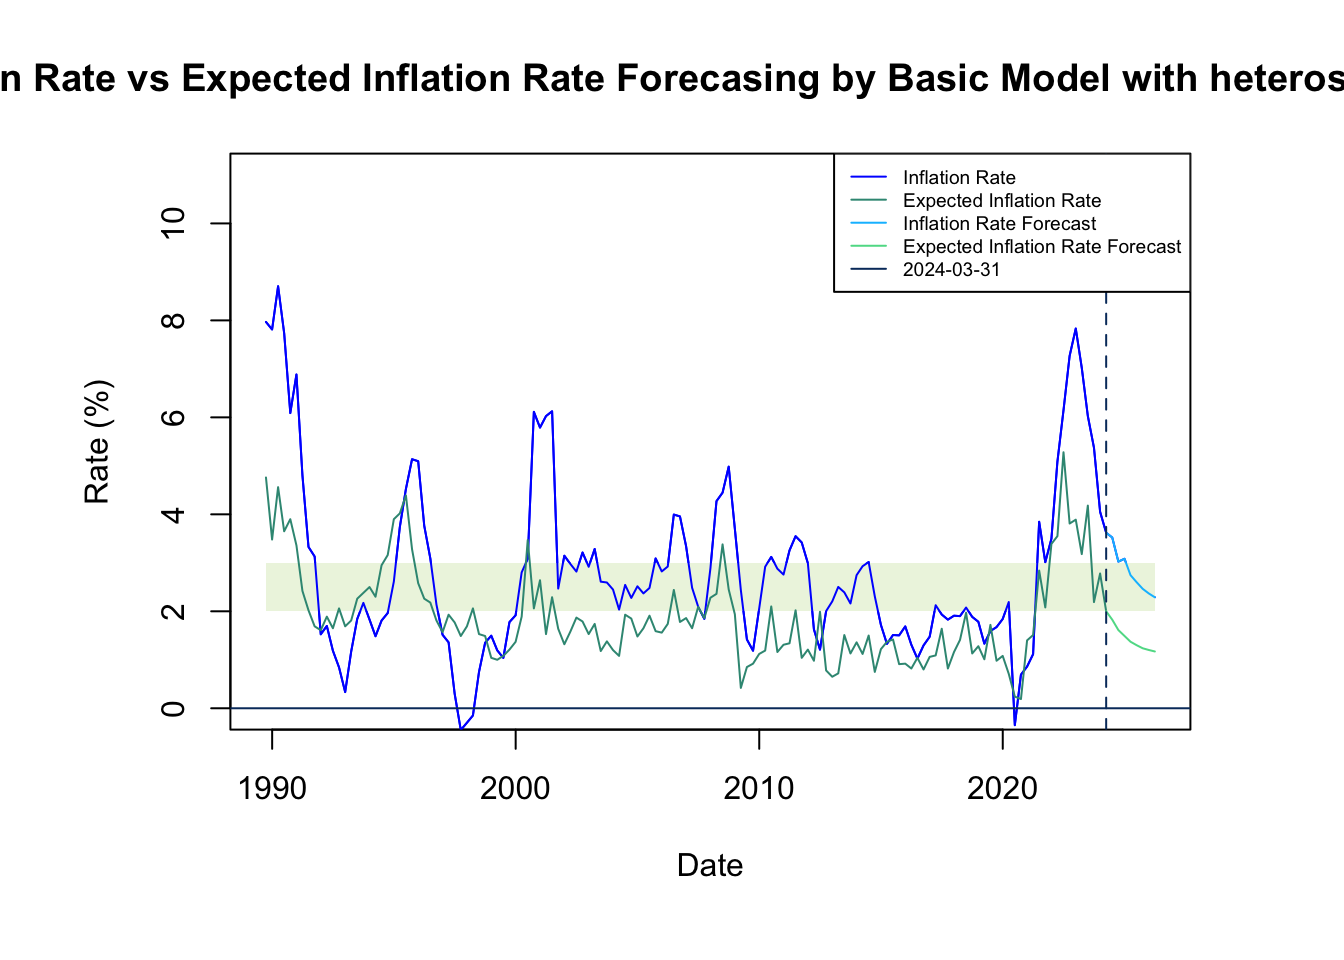
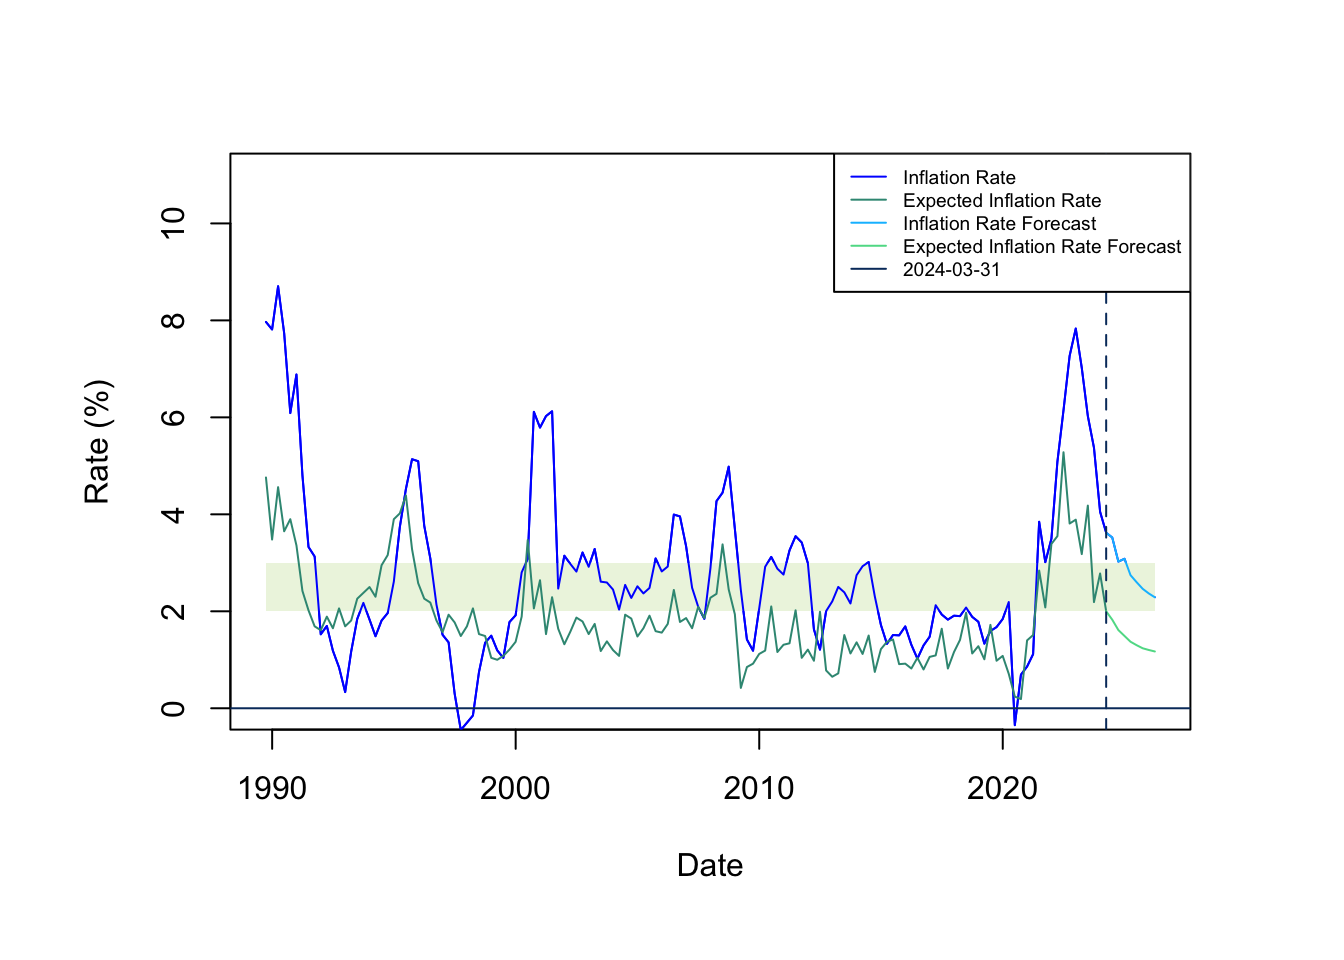
update color

Changed region(s): [[0.0, 0.0625, 1.0, 0.0938]]

diff --git a/docs/index.html b/docs/index.html
@@ -1246,23 +1246,23 @@ p\left( {A}, {\color{purple}\Sigma}|Y,X \right)
 <li>kernel:</li>
 </ul>
 <p><span class="math display">\[
-\begin{align}
+\begin{align*}
 p\left( {A},{\Sigma} |Y,X\right)
 &amp;\propto  \text{det}({\Sigma})^{-\frac{T}{2}}\\
 &amp;\quad\times\exp\left\{ -\frac{1}{2}\text{tr}\left[ {\Sigma}^{-1}({A}-\widehat{A})'X' \ \mathrm{diag}(\sigma_{T}^{2}) \ X({A}-\widehat{A}) \right] \right\}\\
 &amp;\quad\times \exp\left\{ -\frac{1}{2}\text{tr}\left[ {\Sigma}^{-1}(Y-X\widehat{A})' \ \mathrm{diag}(\sigma_{T}^{2}) \ (Y-X\widehat{A}) \right] \right\}\\
 &amp; \quad\times\text{det}({\Sigma})^{-\frac{N+K+\underline{\nu}+1}{2}}\\
 &amp;\quad\times\exp\left\{ -\frac{1}{2}\text{tr}\left[ {\Sigma}^{-1}({A}-\underline{A})'\underline{V}^{-1}({A}-\underline{A}) \right] \right\}\\
-&amp;\quad\times \exp\left\{ -\frac{1}{2}\text{tr}\left[ {\Sigma}^{-1}\underline{S} \right] \right\}
-\\
-&amp;\propto\text{det}({\Sigma})^{-\frac{\overbrace{T+\underline{\nu}}^{\overline{\nu}} +N+K++1}{2}}\\&amp;\quad\times\exp\left\{ -\frac{1}{2}\text{tr}\left[ {\Sigma}^{-1}
-\underbrace{\left[({A}-\widehat{A})'X' \ \mathrm{diag}(\sigma_{T}^{2}) \ X({A}-\widehat{A}) + ({A}-\underline{A})'\underline{V}^{-1}({A}-\underline{A}) +(Y-X\widehat{A})' \ \mathrm{diag}(\sigma_{T}^{2}) \ (Y-X\widehat{A}) + \underline{S} \right]}_{*} \right] \right\}
-\end{align}
+&amp;\quad\times \exp\left\{ -\frac{1}{2}\text{tr}\left[ {\Sigma}^{-1}\underline{S} \right] \right\} \\
+&amp;\propto\text{det}({\Sigma})^{-\frac{\overbrace{T+\underline{\nu}}^{\overline{\nu}} +N+K++1}{2}} \\
+&amp;\quad\times\exp\left\{ -\frac{1}{2}\text{tr}\left[ {\Sigma}^{-1}
+\color{blue}{\left[({A}-\widehat{A})'X' \ \mathrm{diag}(\sigma_{T}^{2}) \ X({A}-\widehat{A}) + ({A}-\underline{A})'\underline{V}^{-1}({A}-\underline{A})  +(Y-X\widehat{A})' \ \mathrm{diag}(\sigma_{T}^{2}) \ (Y-X\widehat{A}) + \underline{S} \right]} \right] \right\}
+\end{align*}
 \]</span></p>
-<p>Focus on the star (*) part:</p>
+<p>Focus on the blue part:</p>
 <p><span class="math display">\[
 \begin{align}
-&amp; \quad ({A}-\widehat{A})'X' \ \mathrm{diag}(\sigma_{T}^{2}) \ X({A}-\widehat{A}) + ({A}-\underline{A})'\underline{V}^{-1}({A}-\underline{A}) +(Y-X\widehat{A})' \ \mathrm{diag}(\sigma_{T}^{2}) \ (Y-X\widehat{A}) + \underline{S}
+&amp; \quad \quad({A}-\widehat{A})'X' \ \mathrm{diag}(\sigma_{T}^{2}) \ X({A}-\widehat{A}) + ({A}-\underline{A})'\underline{V}^{-1}({A}-\underline{A}) +(Y-X\widehat{A})' \ \mathrm{diag}(\sigma_{T}^{2}) \ (Y-X\widehat{A}) + \underline{S}
 \\
 &amp;= A'X'\mathrm{diag}(\sigma_{T}^{2})XA - A'X'\mathrm{diag}(\sigma_{T}^{2})X\widehat{A} -\widehat{A}'X'\mathrm{diag}(\sigma_{T}^{2})XA + \underbrace{\widehat{A}'X'\mathrm{diag}(\sigma_{T}^{2})X\widehat{A}}_{\text{cancel out 1}}  + A'\underline{V}^{-1}A -A'\underline{V}^{-1}\underline{A} - \underline{A}'\underline{V}^{-1}A +\underline{A}'\underline{V}^{-1}\underline{A}'
 \\
